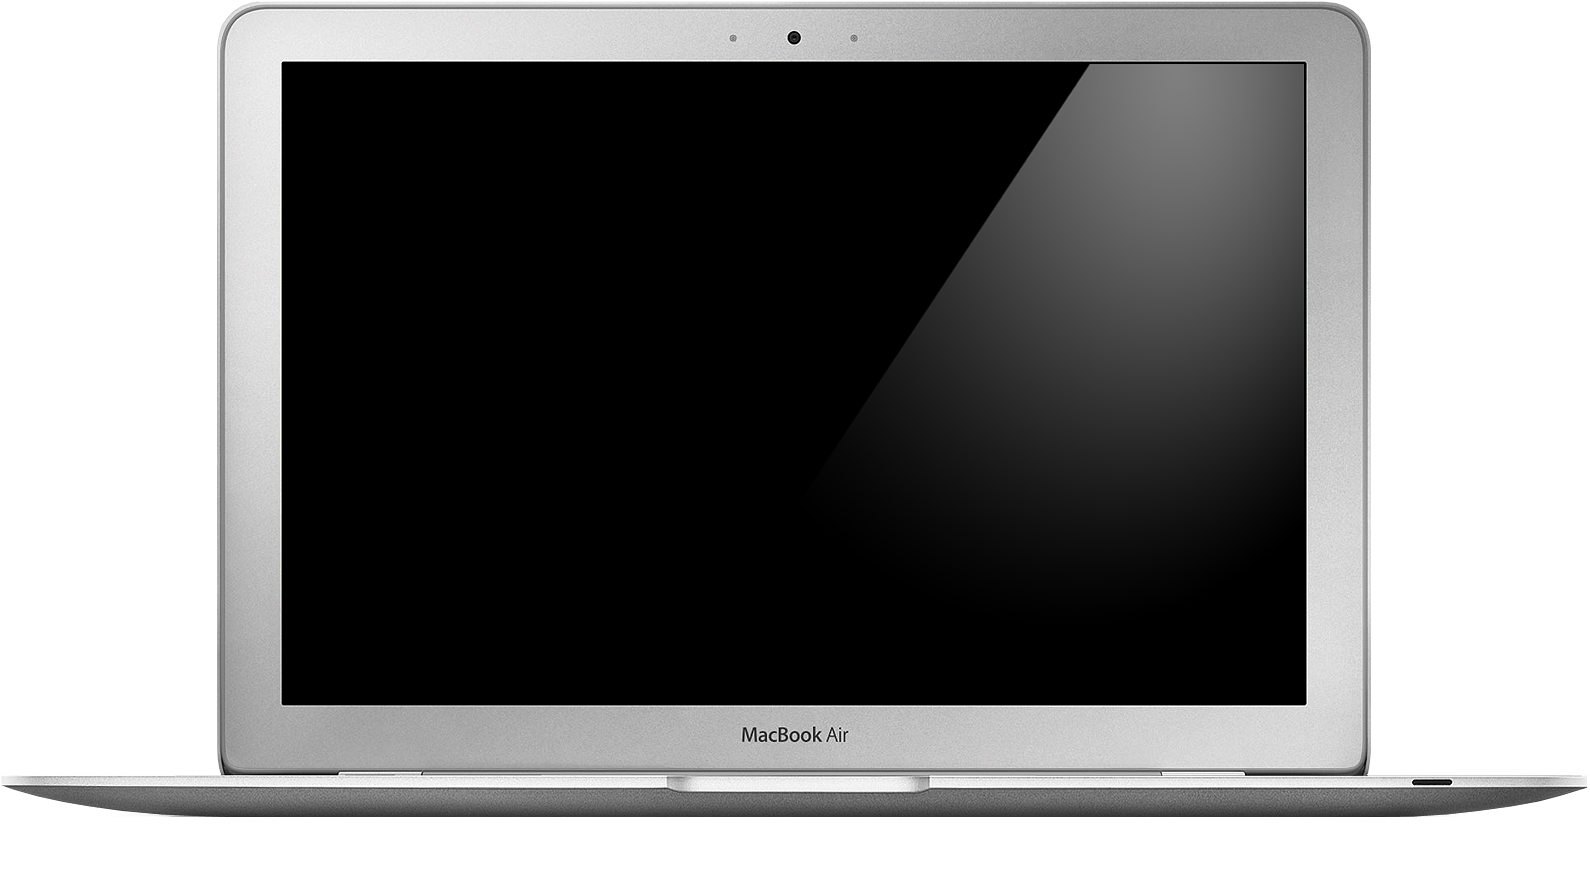
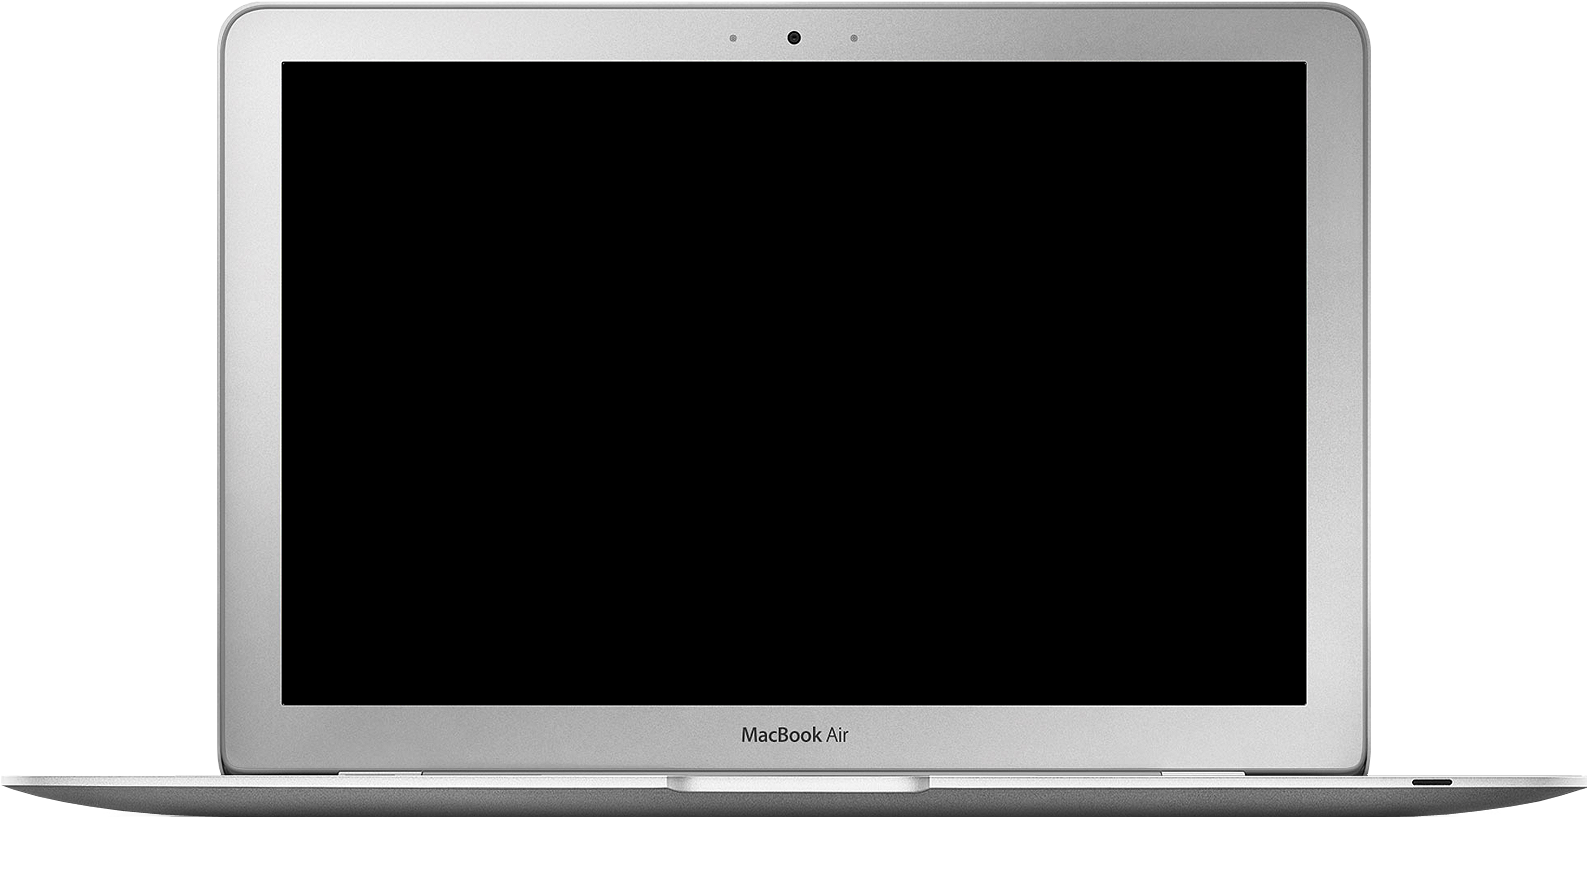
notebook specular highlight

Changed region(s): [[0.5547, 0.0614, 0.8321, 0.583]]

diff --git a/css/site.css b/css/site.css
@@ -3376,6 +3376,13 @@ ol.statuses .hentry a.fav {
     display: none !important;
 }
 
+.overlay-lesk {
+    position: absolute;
+    top: 64px;
+    right: 284px;
+    z-index: 500;
+    opacity: 0.5;
+}
 
 .product-separator {
     background: transparent url('/shared/img/product-separator.png') 0 0 no-repeat;
